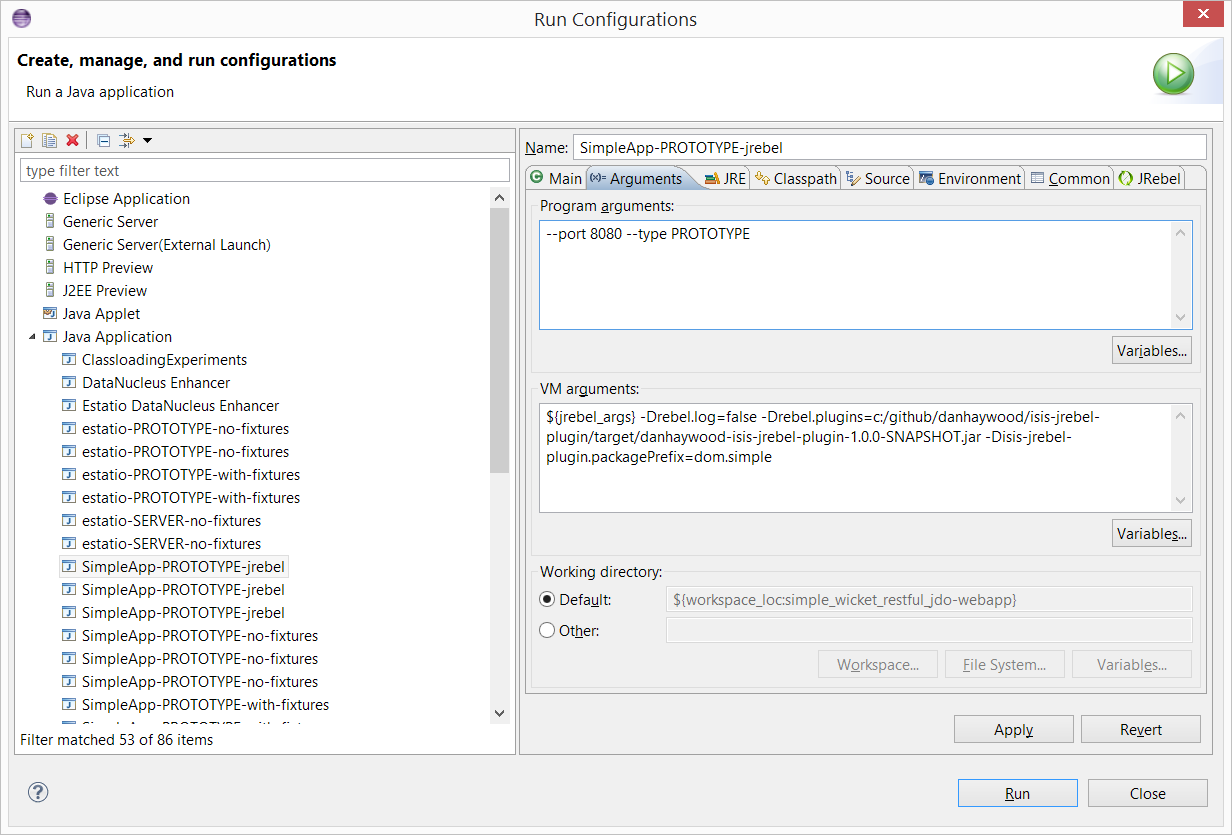
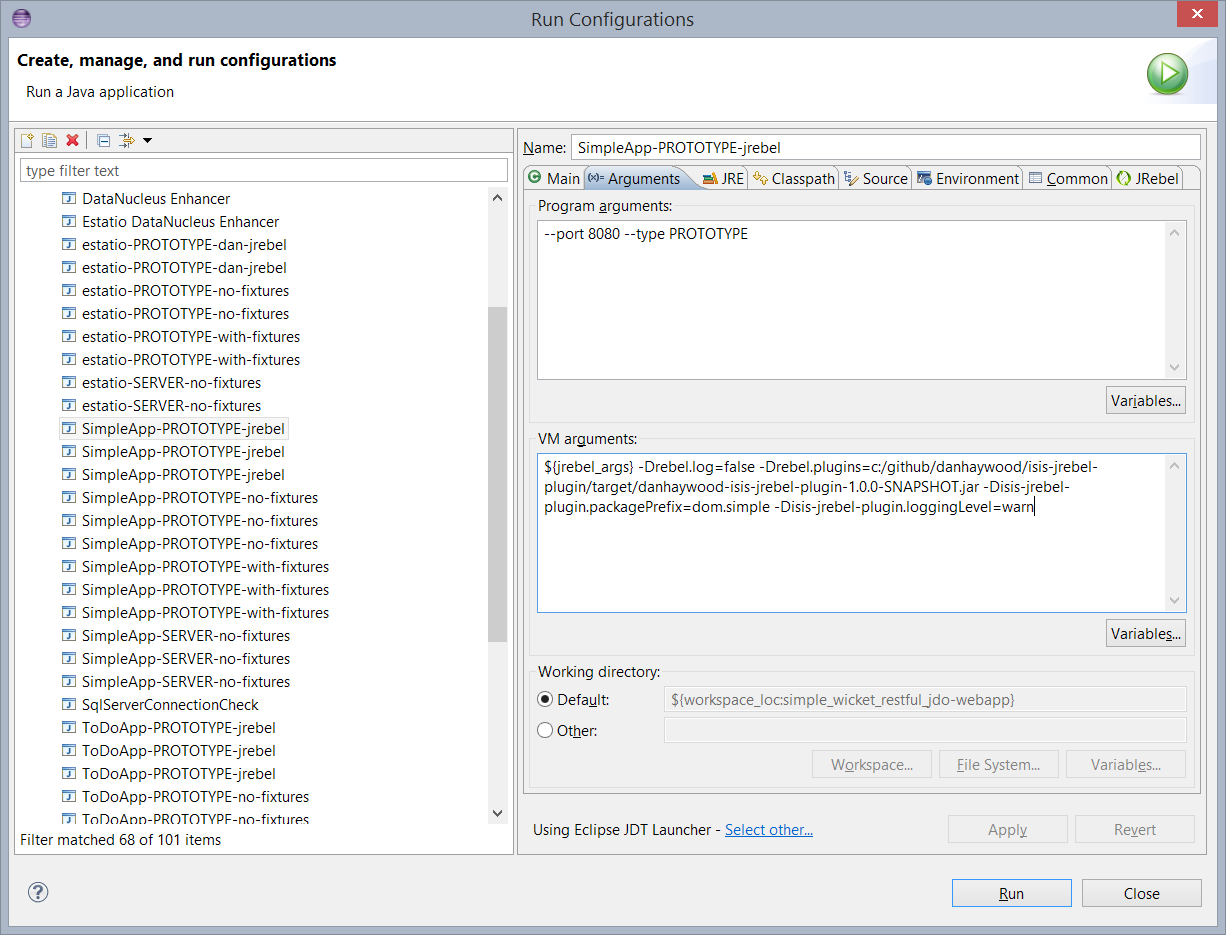
Updates to README.

Changed region(s): [[0.0, 0.0, 1.0, 1.0], [0.8989, 0.5916, 0.9608, 0.685], [0.8989, 0.3737, 0.9608, 0.4359]]

diff --git a/README.md b/README.md
@@ -77,9 +77,13 @@ To dissect this:
 
 * `-Drebel.plugins` points to this plugin
 
+    Obviously, you should adjust the location of the JAR file, and the package prefix as necessary.
+
 * `-Disis-jrebel-plugin.packagePrefix` argument tells this plugin to ignore all packages except that specified; set it to the parent package for all your domain object classes.  If your code is in more than one package, specify the argument as a comma-separated list of packages.
 
-Obviously, you should adjust the location of the JAR file, and the package prefix as necessary.
+
+* `-Disis-jrebel-plugin.loggingLevel` argument tells this plugin how much logging to emit; valid values are `DEBUG`, `INFO` and `WARN`.
+
 
 You might also want to increase the (infamous) `MaxPermSize`; add:
 
@@ -100,7 +104,7 @@ Alternatively, copy one of the example `Xxx-PROTOTYPE-no-fixtures.launch` files 
 
     <stringAttribute 
           key="org.eclipse.jdt.launching.VM_ARGUMENTS" 
-          value="${jrebel_args} -Drebel.log=false -Drebel.plugins=c:/github/danhaywood/isis-jrebel-plugin/target/danhaywood-isis-jrebel-plugin-1.0.0-SNAPSHOT.jar -Disis-jrebel-plugin.packagePrefix=dom.simple -XX:MaxPermSize=128m"/>
+          value="${jrebel_args} -Drebel.log=false -Drebel.plugins=c:/github/danhaywood/isis-jrebel-plugin/target/danhaywood-isis-jrebel-plugin-1.0.0-SNAPSHOT.jar -Disis-jrebel-plugin.packagePrefix=dom.simple -Disis-jrebel-plugin.loggingLevel=warn -XX:MaxPermSize=128m"/>
 
 (adjusting the location of the JAR file, the package prefix, and the `MaxPermSize` as necessary)
 
